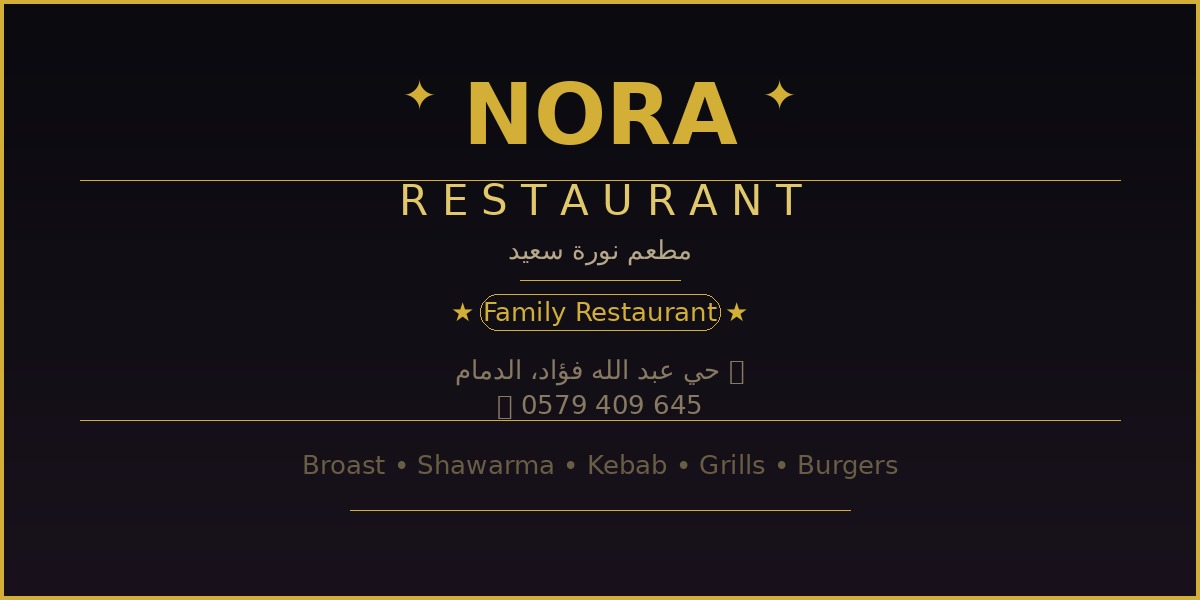
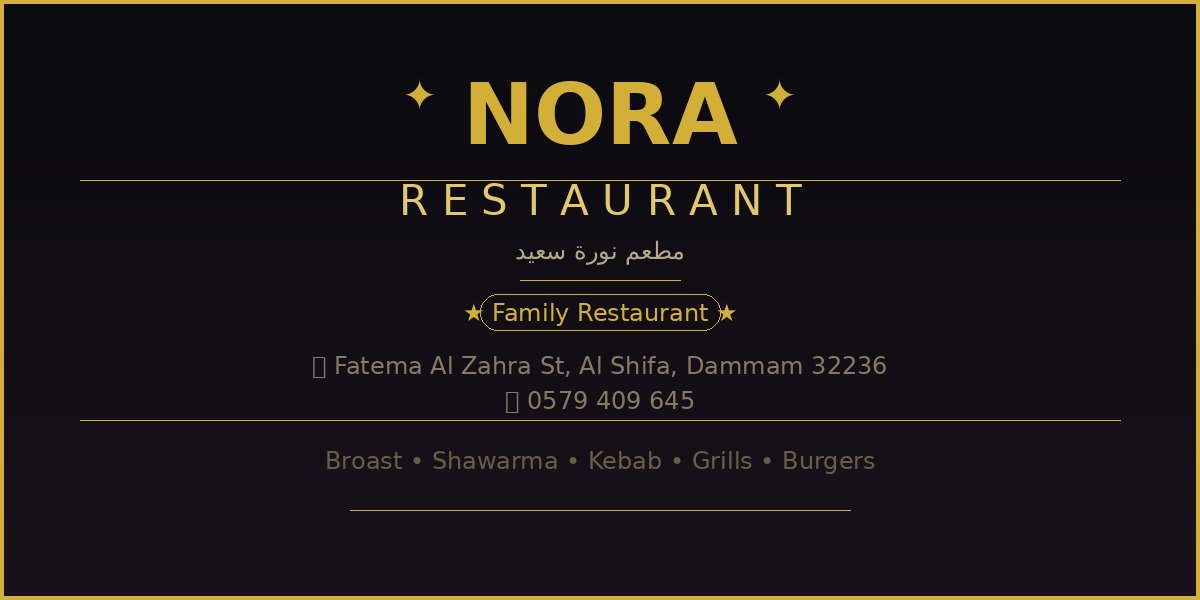
Update location to Fatema Al Zahra St, Al Shifa, Dammam 32236

diff --git a/index.html b/index.html
@@ -564,7 +564,7 @@
       </span>
       <span class="hero-info-item">
         <i class="fas fa-location-dot"></i>
-        حي عبد الله فؤاد، الدمام، المملكة العربية السعودية
+        Fatema Al Zahra St, Al Shifa, Dammam 32236 — المملكة العربية السعودية
       </span>
       <span class="hero-info-item">
         <i class="fas fa-utensils"></i>
@@ -767,18 +767,18 @@
       <div class="contact-card">
         <i class="fas fa-location-dot"></i>
         <h3>Location</h3>
-        <p>حي عبد الله فؤاد، الدمام<br>المملكة العربية السعودية</p>
+        <p>Fatema Al Zahra St, Al Shifa<br>Dammam 32236, المملكة العربية السعودية</p>
       </div>
     </div>
 
     <div class="contact-buttons">
       <a href="tel:+966579409645" class="btn btn-gold"><i class="fas fa-phone-alt"></i> Call Now</a>
       <a href="https://wa.me/966579409645" target="_blank" rel="noopener" class="btn btn-outline"><i class="fab fa-whatsapp"></i> WhatsApp</a>
-      <a href="https://www.google.com/maps/search/?api=1&query=حي+عبد+الله+فؤاد+الدمام+السعودية" target="_blank" rel="noopener" class="btn btn-outline"><i class="fas fa-map-pin"></i> Get Directions</a>
+      <a href="https://www.google.com/maps/search/?api=1&query=Fatema+Al+Zahra+St+Al+Shifa+Dammam+32236+Saudi+Arabia" target="_blank" rel="noopener" class="btn btn-outline"><i class="fas fa-map-pin"></i> Get Directions</a>
     </div>
 
     <div class="map-container">
-      <iframe src="https://www.google.com/maps/embed?pb=!1m18!1m12!1m3!1d114404.20358519867!2d50.08081036052159!3d26.40282459667821!2m3!1f0!2f0!3f0!3m2!1i1024!2i768!4f13.1!3m3!1m2!1s0x3e49fc1b2b2b2b2b%3A0x2b2b2b2b2b2b2b2b!2sDammam%2C%20Saudi%20Arabia!5e0!3m2!1sen!2s!4v1" allowfullscreen="" loading="lazy" referrerpolicy="no-referrer-when-downgrade" title="NORA Restaurant Location - Dammam"></iframe>
+      <iframe src="https://www.google.com/maps/embed?pb=!1m18!1m12!1m3!1d3578.908!2d50.0815!3d26.4022!2m3!1f0!2f0!3f0!3m2!1i1024!2i768!4f13.1!3m3!1m2!1s0x3e49f1c0a1b2c3d5%3A0x8f1a2b3c4d5e6f7!2sFatema%20Al%20Zahra%20St%2C%20Al%20Shifa%2C%20Dammam%2C%20Saudi%20Arabia!5e0!3m2!1sen!2s!4v1" allowfullscreen="" loading="lazy" referrerpolicy="no-referrer-when-downgrade" title="NORA Restaurant - Fatema Al Zahra St, Dammam"></iframe>
     </div>
   </section>
 